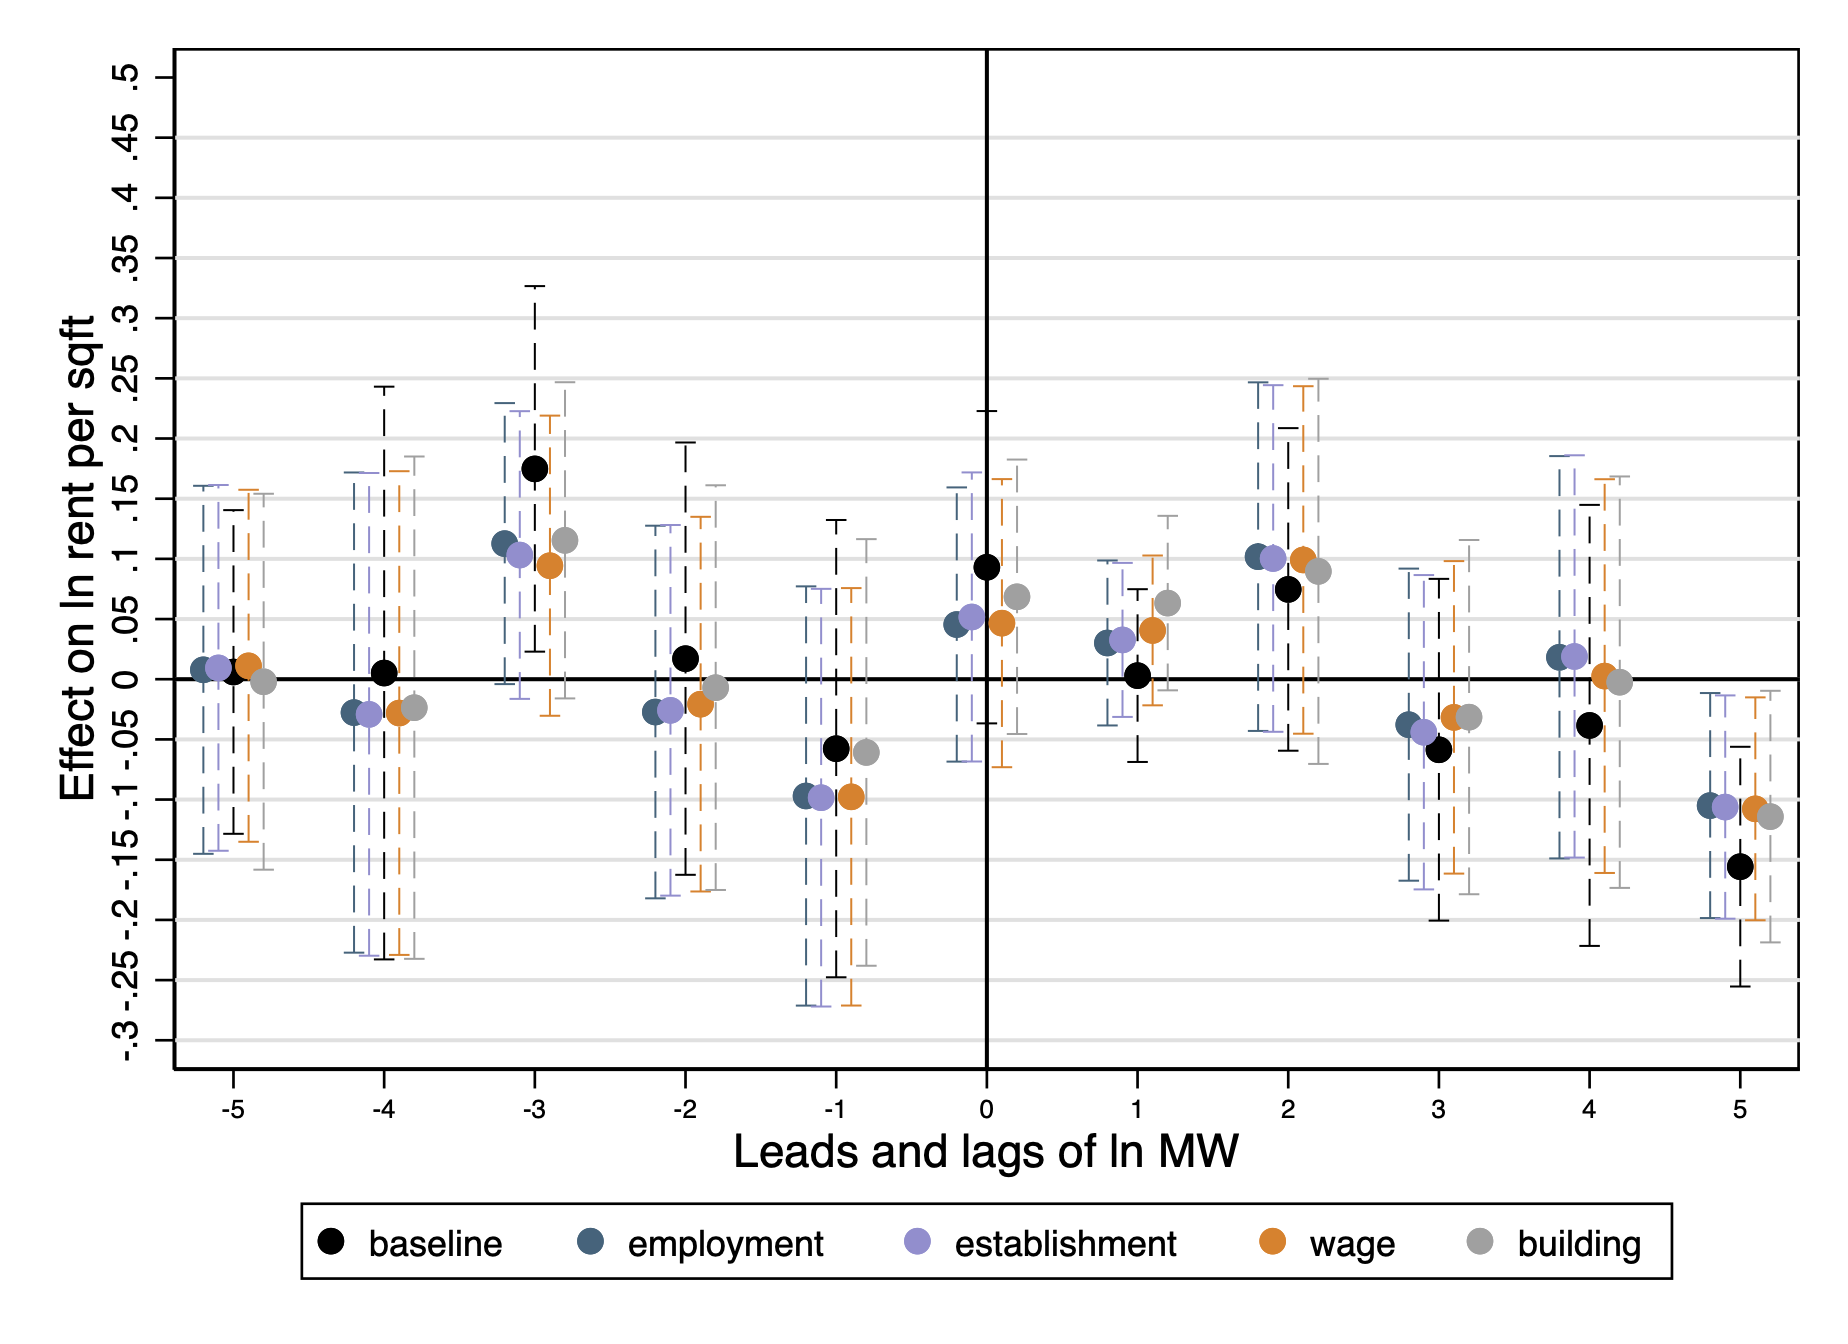
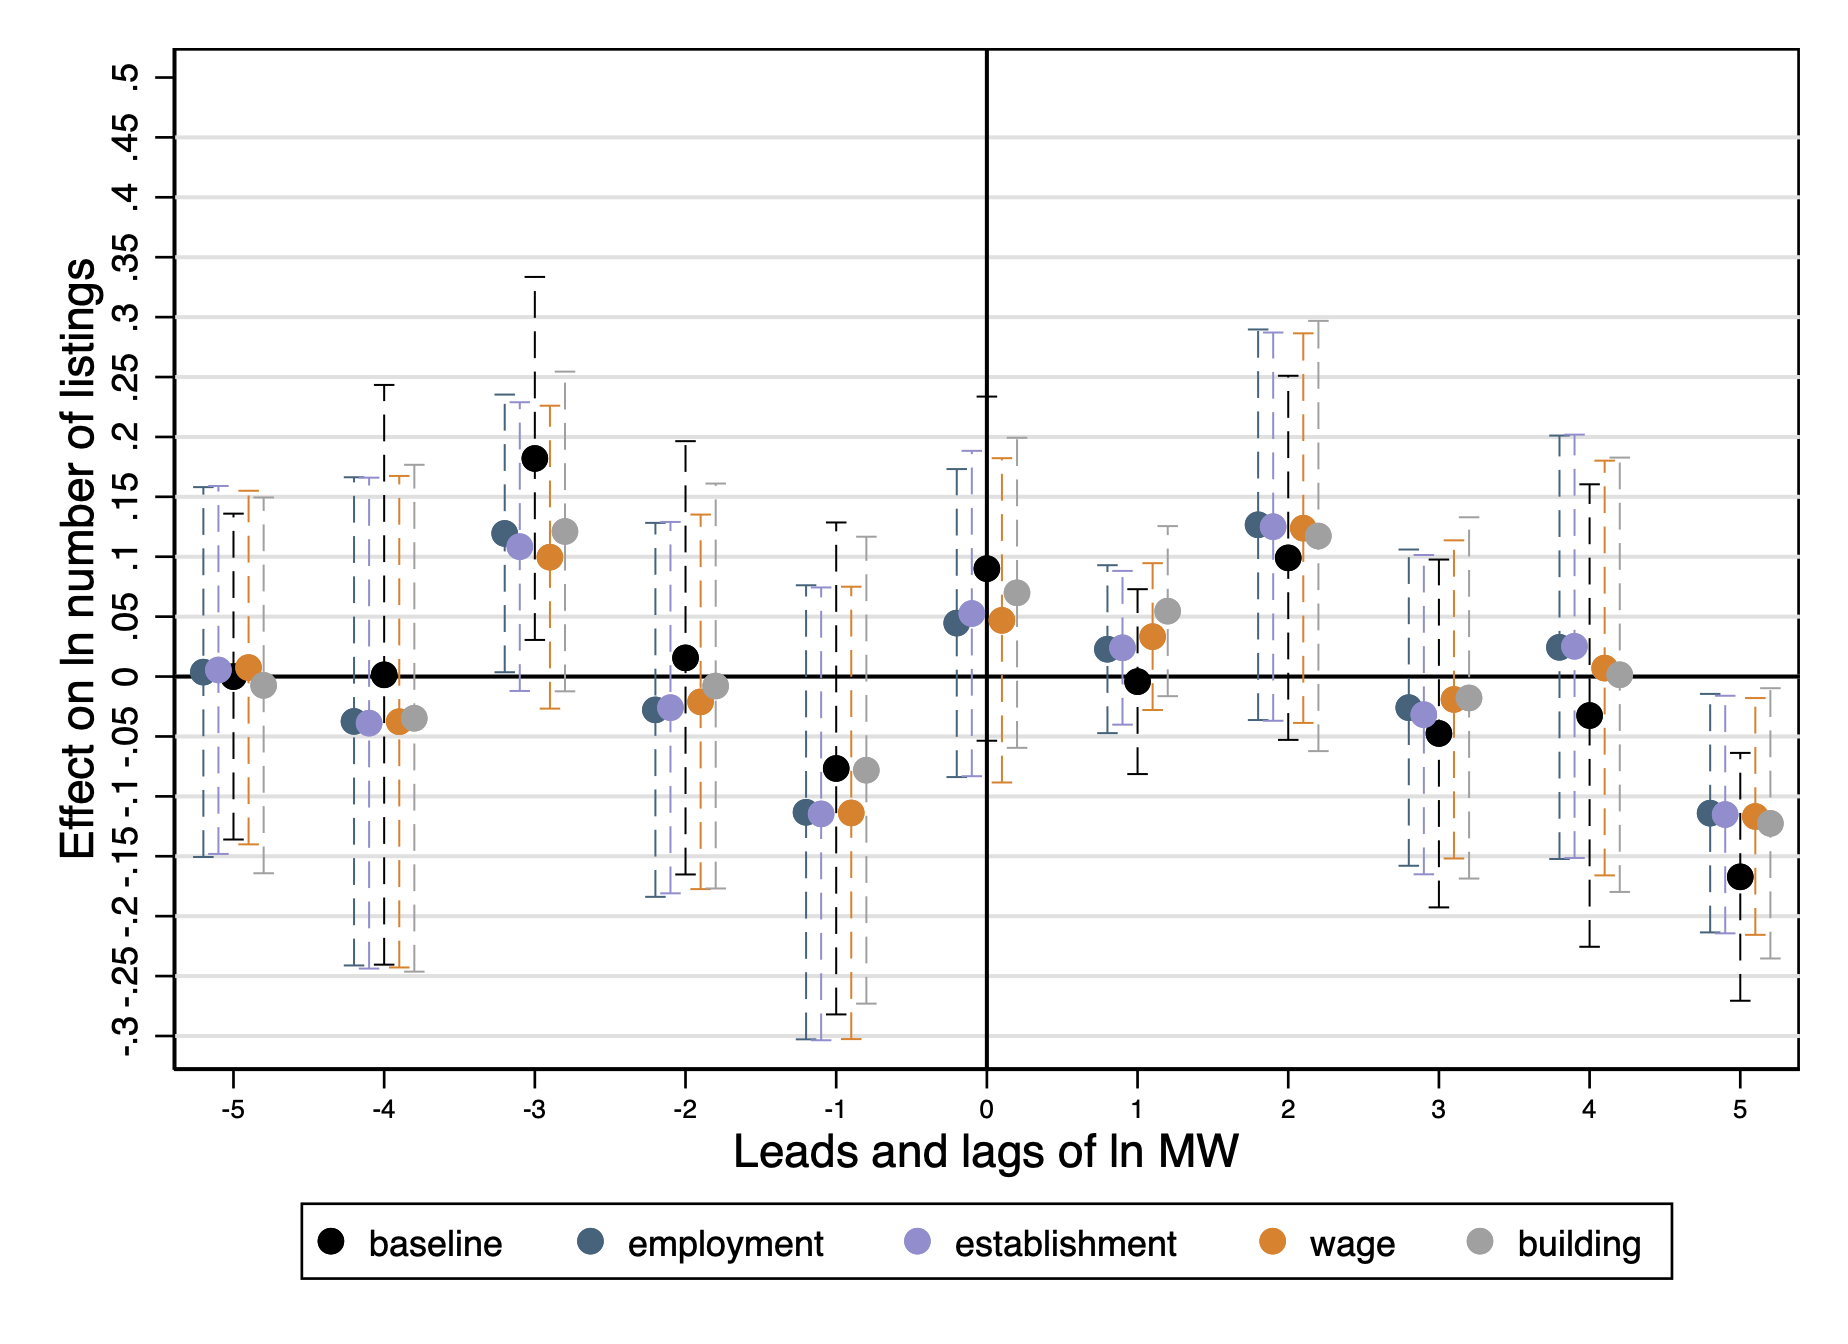
#58 updated tables

diff --git a/analysis/first_differences_nlist/output/fd_dynamic_table_control_nlist.tex b/analysis/first_differences_nlist/output/fd_dynamic_table_control_nlist.tex
@@ -4,45 +4,45 @@
 \hline\hline
           &\multicolumn{1}{c}{(1)}         &\multicolumn{1}{c}{(2)}         &\multicolumn{1}{c}{(3)}         &\multicolumn{1}{c}{(4)}         &\multicolumn{1}{c}{(5)}         \\
 \hline
-$\Delta \ln(MW)_{t-5}$&  0.00604         &  0.00784         &  0.00942         &   0.0112         & -0.00206         \\
-          & (0.0817)         & (0.0930)         & (0.0924)         & (0.0889)         & (0.0950)         \\
+$\Delta \ln(MW)_{t-5}$&-0.0000418         &  0.00375         &  0.00549         &  0.00751         & -0.00733         \\
+          & (0.0827)         & (0.0938)         & (0.0934)         & (0.0897)         & (0.0953)         \\
 [1em]
-$\Delta \ln(MW)_{t-4}$&  0.00517         &  -0.0277         &  -0.0292         &  -0.0281         &  -0.0236         \\
-          &  (0.145)         &  (0.121)         &  (0.122)         &  (0.122)         &  (0.127)         \\
+$\Delta \ln(MW)_{t-4}$&  0.00147         &  -0.0374         &  -0.0389         &  -0.0377         &  -0.0348         \\
+          &  (0.147)         &  (0.124)         &  (0.125)         &  (0.125)         &  (0.129)         \\
 [1em]
-$\Delta \ln(MW)_{t-3}$&    0.175\sym{*}  &    0.113         &    0.103         &   0.0943         &    0.115         \\
-          & (0.0923)         & (0.0710)         & (0.0727)         & (0.0758)         & (0.0798)         \\
+$\Delta \ln(MW)_{t-3}$&    0.182\sym{*}  &    0.119\sym{*}  &    0.108         &   0.0996         &    0.121         \\
+          & (0.0921)         & (0.0704)         & (0.0733)         & (0.0769)         & (0.0811)         \\
 [1em]
-$\Delta \ln(MW)_{t-2}$&   0.0171         &  -0.0272         &  -0.0258         &  -0.0207         & -0.00699         \\
-          &  (0.109)         & (0.0941)         & (0.0936)         & (0.0946)         &  (0.102)         \\
+$\Delta \ln(MW)_{t-2}$&   0.0156         &  -0.0278         &  -0.0259         &  -0.0211         & -0.00788         \\
+          &  (0.110)         & (0.0949)         & (0.0942)         & (0.0950)         &  (0.103)         \\
 [1em]
-$\Delta \ln(MW)_{t-1}$&  -0.0577         &  -0.0970         &  -0.0984         &  -0.0977         &  -0.0608         \\
-          &  (0.115)         &  (0.106)         &  (0.105)         &  (0.105)         &  (0.108)         \\
+$\Delta \ln(MW)_{t-1}$&  -0.0767         &   -0.113         &   -0.115         &   -0.114         &  -0.0781         \\
+          &  (0.125)         &  (0.115)         &  (0.115)         &  (0.115)         &  (0.118)         \\
 [1em]
-$\Delta \ln(MW)_{t}$&   0.0931         &   0.0455         &   0.0517         &   0.0466         &   0.0685         \\
-          & (0.0789)         & (0.0693)         & (0.0730)         & (0.0728)         & (0.0693)         \\
+$\Delta \ln(MW)_{t}$&   0.0901         &   0.0446         &   0.0526         &   0.0469         &   0.0699         \\
+          & (0.0873)         & (0.0781)         & (0.0825)         & (0.0823)         & (0.0787)         \\
 [1em]
-$\Delta \ln(MW)_{t+1}$&  0.00304         &   0.0301         &   0.0327         &   0.0406         &   0.0633         \\
-          & (0.0436)         & (0.0417)         & (0.0389)         & (0.0378)         & (0.0441)         \\
+$\Delta \ln(MW)_{t+1}$& -0.00423         &   0.0228         &   0.0240         &   0.0333         &   0.0546         \\
+          & (0.0469)         & (0.0426)         & (0.0390)         & (0.0372)         & (0.0431)         \\
 [1em]
-$\Delta \ln(MW)_{t+2}$&   0.0746         &    0.102         &    0.100         &   0.0991         &   0.0897         \\
-          & (0.0815)         & (0.0880)         & (0.0875)         & (0.0878)         & (0.0973)         \\
+$\Delta \ln(MW)_{t+2}$&   0.0991         &    0.127         &    0.125         &    0.124         &    0.117         \\
+          & (0.0924)         & (0.0991)         & (0.0985)         & (0.0988)         &  (0.109)         \\
 [1em]
-$\Delta \ln(MW)_{t+3}$&  -0.0586         &  -0.0377         &  -0.0440         &  -0.0317         &  -0.0315         \\
-          & (0.0863)         & (0.0788)         & (0.0794)         & (0.0789)         & (0.0895)         \\
+$\Delta \ln(MW)_{t+3}$&  -0.0475         &  -0.0259         &  -0.0318         &  -0.0191         &  -0.0178         \\
+          & (0.0882)         & (0.0802)         & (0.0810)         & (0.0807)         & (0.0917)         \\
 [1em]
-$\Delta \ln(MW)_{t+4}$&  -0.0384         &   0.0183         &   0.0189         &  0.00262         & -0.00244         \\
-          &  (0.111)         &  (0.102)         &  (0.102)         & (0.0995)         &  (0.104)         \\
+$\Delta \ln(MW)_{t+4}$&  -0.0325         &   0.0244         &   0.0252         &  0.00712         &  0.00149         \\
+          &  (0.117)         &  (0.107)         &  (0.107)         &  (0.105)         &  (0.110)         \\
 [1em]
-$\Delta \ln(MW)_{t+5}$&   -0.156\sym{**} &   -0.105\sym{*}  &   -0.106\sym{*}  &   -0.108\sym{*}  &   -0.114\sym{*}  \\
-          & (0.0605)         & (0.0568)         & (0.0564)         & (0.0563)         & (0.0635)         \\
+$\Delta \ln(MW)_{t+5}$&   -0.167\sym{**} &   -0.114\sym{*}  &   -0.115\sym{*}  &   -0.117\sym{*}  &   -0.123\sym{*}  \\
+          & (0.0629)         & (0.0605)         & (0.0603)         & (0.0601)         & (0.0686)         \\
 \hline
-P-value no pretrends&    0.000         &    0.000         &    0.000         &    0.000         &    0.011         \\
+P-value no pretrends&    0.000         &    0.000         &    0.000         &    0.000         &    0.005         \\
 County-month industry-level employment&       No         &      Yes         &      Yes         &      Yes         &      Yes         \\
 County-quarter industry-level establ. count&       No         &       No         &      Yes         &      Yes         &      Yes         \\
 County-quarter industry-level weekly wage&       No         &       No         &       No         &      Yes         &      Yes         \\
 County-month new house permits and value&       No         &       No         &       No         &       No         &      Yes         \\
-R-squared &    0.375         &    0.389         &    0.389         &    0.390         &    0.392         \\
+R-squared &    0.373         &    0.387         &    0.388         &    0.389         &    0.390         \\
 Observations&   91,174         &   86,889         &   86,889         &   86,889         &   73,130         \\
 \hline\hline
 \end{tabular}

diff --git a/analysis/first_differences_nlist/output/fd_dynamic_table_nlist.tex b/analysis/first_differences_nlist/output/fd_dynamic_table_nlist.tex
@@ -4,43 +4,43 @@
 \hline\hline
           &\multicolumn{1}{c}{(1)}         &\multicolumn{1}{c}{(2)}         &\multicolumn{1}{c}{(3)}         \\
 \hline
-$\Delta \ln(MW)_{t-5}$&   0.0152         &  0.00604         &  0.00975         \\
-          & (0.0846)         & (0.0817)         & (0.0803)         \\
+$\Delta \ln(MW)_{t-5}$&  0.00946         &-0.0000418         &  0.00377         \\
+          & (0.0857)         & (0.0827)         & (0.0811)         \\
 [1em]
-$\Delta \ln(MW)_{t-4}$&   0.0155         &  0.00517         &  0.00991         \\
-          &  (0.140)         &  (0.145)         &  (0.145)         \\
+$\Delta \ln(MW)_{t-4}$&   0.0121         &  0.00147         &  0.00611         \\
+          &  (0.142)         &  (0.147)         &  (0.147)         \\
 [1em]
-$\Delta \ln(MW)_{t-3}$&    0.185\sym{**} &    0.175\sym{*}  &    0.180\sym{*}  \\
-          & (0.0836)         & (0.0923)         &  (0.101)         \\
+$\Delta \ln(MW)_{t-3}$&    0.193\sym{**} &    0.182\sym{*}  &    0.187\sym{*}  \\
+          & (0.0834)         & (0.0921)         &  (0.100)         \\
 [1em]
-$\Delta \ln(MW)_{t-2}$&   0.0276         &   0.0171         &   0.0238         \\
-          & (0.0975)         &  (0.109)         &  (0.117)         \\
+$\Delta \ln(MW)_{t-2}$&   0.0264         &   0.0156         &   0.0223         \\
+          & (0.0984)         &  (0.110)         &  (0.118)         \\
 [1em]
-$\Delta \ln(MW)_{t-1}$&  -0.0472         &  -0.0577         &  -0.0504         \\
-          &  (0.107)         &  (0.115)         &  (0.123)         \\
+$\Delta \ln(MW)_{t-1}$&  -0.0660         &  -0.0767         &  -0.0695         \\
+          &  (0.116)         &  (0.125)         &  (0.133)         \\
 [1em]
-$\Delta \ln(MW)_{t}$&    0.103         &   0.0931         &    0.100         \\
-          & (0.0750)         & (0.0789)         & (0.0824)         \\
+$\Delta \ln(MW)_{t}$&    0.100         &   0.0901         &   0.0971         \\
+          & (0.0835)         & (0.0873)         & (0.0907)         \\
 [1em]
-$\Delta \ln(MW)_{t+1}$&   0.0112         &  0.00304         &  0.00871         \\
-          & (0.0483)         & (0.0436)         & (0.0459)         \\
+$\Delta \ln(MW)_{t+1}$&  0.00411         & -0.00423         &  0.00135         \\
+          & (0.0500)         & (0.0469)         & (0.0499)         \\
 [1em]
-$\Delta \ln(MW)_{t+2}$&   0.0832         &   0.0746         &   0.0803         \\
-          & (0.0873)         & (0.0815)         & (0.0796)         \\
+$\Delta \ln(MW)_{t+2}$&    0.108         &   0.0991         &    0.105         \\
+          & (0.0985)         & (0.0924)         & (0.0901)         \\
 [1em]
-$\Delta \ln(MW)_{t+3}$&  -0.0501         &  -0.0586         &  -0.0521         \\
-          & (0.0935)         & (0.0863)         & (0.0838)         \\
+$\Delta \ln(MW)_{t+3}$&  -0.0389         &  -0.0475         &  -0.0409         \\
+          & (0.0954)         & (0.0882)         & (0.0854)         \\
 [1em]
-$\Delta \ln(MW)_{t+4}$&  -0.0301         &  -0.0384         &  -0.0322         \\
-          &  (0.118)         &  (0.111)         &  (0.107)         \\
+$\Delta \ln(MW)_{t+4}$&  -0.0241         &  -0.0325         &  -0.0265         \\
+          &  (0.124)         &  (0.117)         &  (0.112)         \\
 [1em]
-$\Delta \ln(MW)_{t+5}$&   -0.147\sym{**} &   -0.156\sym{**} &   -0.150\sym{***}\\
-          & (0.0687)         & (0.0605)         & (0.0547)         \\
+$\Delta \ln(MW)_{t+5}$&   -0.159\sym{**} &   -0.167\sym{**} &   -0.161\sym{***}\\
+          & (0.0699)         & (0.0629)         & (0.0576)         \\
 \hline
 P-value no pretrends&    0.000         &    0.000         &    0.000         \\
 Zipcode-specifc linear trend&       No         &      Yes         &      Yes         \\
 Zipcode-specific quadratic trend&       No         &       No         &      Yes         \\
-R-squared &    0.373         &    0.375         &    0.378         \\
+R-squared &    0.371         &    0.373         &    0.377         \\
 Observations&   91,174         &   91,174         &   91,174         \\
 \hline\hline
 \end{tabular}

diff --git a/analysis/first_differences_nlist/output/fd_table_control_nlist.tex b/analysis/first_differences_nlist/output/fd_table_control_nlist.tex
@@ -4,14 +4,14 @@
 \hline\hline
           &\multicolumn{1}{c}{(1)}         &\multicolumn{1}{c}{(2)}         &\multicolumn{1}{c}{(3)}         &\multicolumn{1}{c}{(4)}         &\multicolumn{1}{c}{(5)}         \\
 \hline
-$\Delta \ln(MW)_{t}$&    0.106         &   0.0478         &   0.0553         &   0.0506         &   0.0704         \\
-          & (0.0763)         & (0.0688)         & (0.0734)         & (0.0744)         & (0.0713)         \\
+$\Delta \ln(MW)_{t}$&    0.104         &   0.0472         &   0.0566         &   0.0514         &   0.0725         \\
+          & (0.0851)         & (0.0774)         & (0.0827)         & (0.0838)         & (0.0803)         \\
 \hline
 County-month industry-level employment&       No         &      Yes         &      Yes         &      Yes         &      Yes         \\
 County-quarter industry-level establ. count&       No         &       No         &      Yes         &      Yes         &      Yes         \\
 County-quarter industry-level weekly wage&       No         &       No         &       No         &      Yes         &      Yes         \\
 County-month new house permits and value&       No         &       No         &       No         &       No         &      Yes         \\
-R-squared &    0.383         &    0.389         &    0.390         &    0.391         &    0.392         \\
+R-squared &    0.382         &    0.388         &    0.389         &    0.389         &    0.391         \\
 Observations&   97,104         &   89,177         &   89,177         &   89,177         &   75,016         \\
 \hline\hline
 \end{tabular}

diff --git a/analysis/first_differences_nlist/output/fd_dynamic_lincom_table_control_nlist.tex b/analysis/first_differences_nlist/output/fd_dynamic_lincom_table_control_nlist.tex
@@ -4,8 +4,8 @@
 \hline\hline
           &\multicolumn{1}{c}{(1)}         &\multicolumn{1}{c}{(2)}         &\multicolumn{1}{c}{(3)}         &\multicolumn{1}{c}{(4)}         &\multicolumn{1}{c}{(5)}         \\
 \hline
-Sum of MW effects&  -0.0819         &   0.0531         &   0.0535         &   0.0495         &   0.0734         \\
-          &  (0.190)         &  (0.157)         &  (0.159)         &  (0.162)         &  (0.176)         \\
+Sum of MW effects&  -0.0623         &   0.0787         &   0.0800         &   0.0754         &    0.103         \\
+          &  (0.197)         &  (0.165)         &  (0.167)         &  (0.170)         &  (0.187)         \\
 \hline
 County-month industry-level employment&       No         &      Yes         &      Yes         &      Yes         &      Yes         \\
 County-quarter industry-level establ. count&       No         &       No         &      Yes         &      Yes         &      Yes         \\

diff --git a/analysis/first_differences_nlist/output/fd_table_nlist.tex b/analysis/first_differences_nlist/output/fd_table_nlist.tex
@@ -4,12 +4,12 @@
 \hline\hline
           &\multicolumn{1}{c}{(1)}         &\multicolumn{1}{c}{(2)}         &\multicolumn{1}{c}{(3)}         \\
 \hline
-$\Delta \ln(MW)_{t}$&    0.105         &    0.106         &    0.109         \\
-          & (0.0730)         & (0.0763)         & (0.0776)         \\
+$\Delta \ln(MW)_{t}$&    0.103         &    0.104         &    0.108         \\
+          & (0.0810)         & (0.0851)         & (0.0863)         \\
 \hline
 Zipcode-specifc linear trend&       No         &      Yes         &      Yes         \\
 Zipcode-specific quadratic trend&       No         &       No         &      Yes         \\
-R-squared &    0.381         &    0.383         &    0.388         \\
+R-squared &    0.380         &    0.382         &    0.387         \\
 Observations&   97,104         &   97,104         &   97,104         \\
 \hline\hline
 \end{tabular}

diff --git a/analysis/first_differences_nlist/output/fd_dynamic_lincom_table_nlist.tex b/analysis/first_differences_nlist/output/fd_dynamic_lincom_table_nlist.tex
@@ -4,8 +4,8 @@
 \hline\hline
           &\multicolumn{1}{c}{(1)}         &\multicolumn{1}{c}{(2)}         &\multicolumn{1}{c}{(3)}         \\
 \hline
-Sum of MW effects&  -0.0302         &  -0.0819         &  -0.0447         \\
-          &  (0.254)         &  (0.190)         &  (0.160)         \\
+Sum of MW effects& -0.00962         &  -0.0623         &  -0.0255         \\
+          &  (0.259)         &  (0.197)         &  (0.166)         \\
 \hline
 Zipcode-specifc linear trend&       No         &      Yes         &      Yes         \\
 Zipcode-specific quadratic trend&       No         &       No         &      Yes         \\
